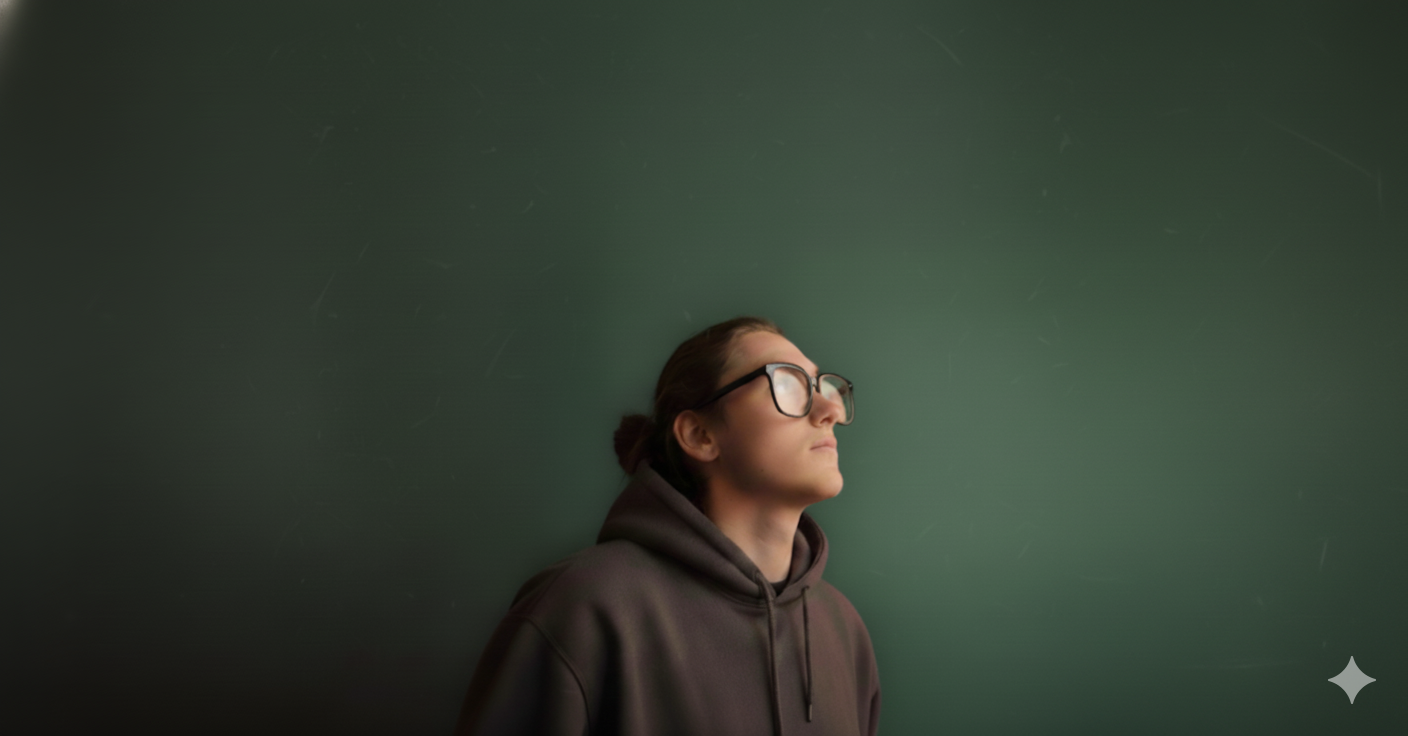
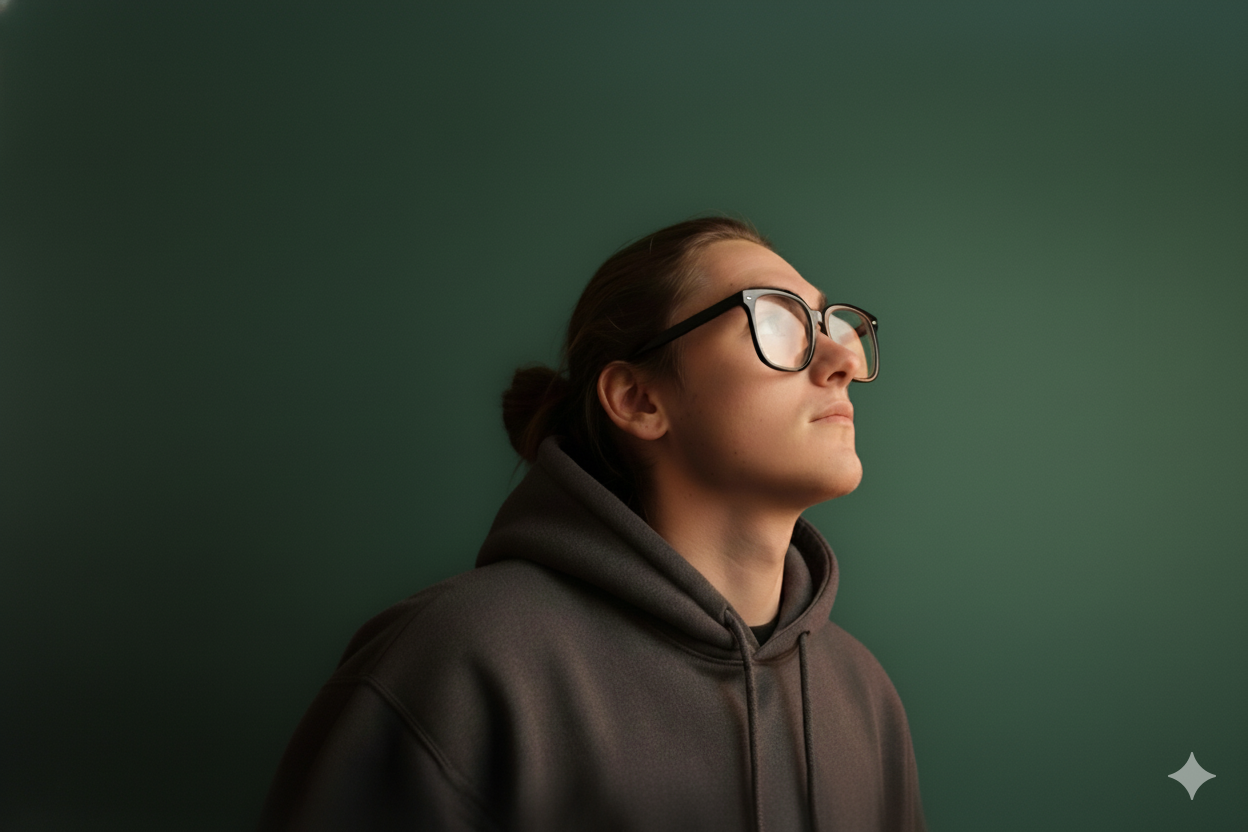
Fond GSM 4K

diff --git a/style.css b/style.css
@@ -728,7 +728,7 @@ h1, h2, h3, h4 {
     .hero__img {
     position: absolute;
     /* On force l'image à se coller en haut */
-    top: -20%;
+    top: -10%;
     left: 0;
     
     /* Largeur : prend tout l'écran */
@@ -738,12 +738,12 @@ h1, h2, h3, h4 {
     height: auto; 
     
     /* SÉCURITÉ : Si l'image est trop petite, on la force à faire au moins la hauteur de l'écran */
-    min-height: 80%;
+    min-height: 70%;
     
     object-fit: cover;
     
     /* 0% sur l'axe Y force l'affichage du HAUT de la photo (visage) */
-    object-position: 53% 0%;
+    object-position: 58% 0%;
 }
     .hero__overlay {
     background: linear-gradient(
